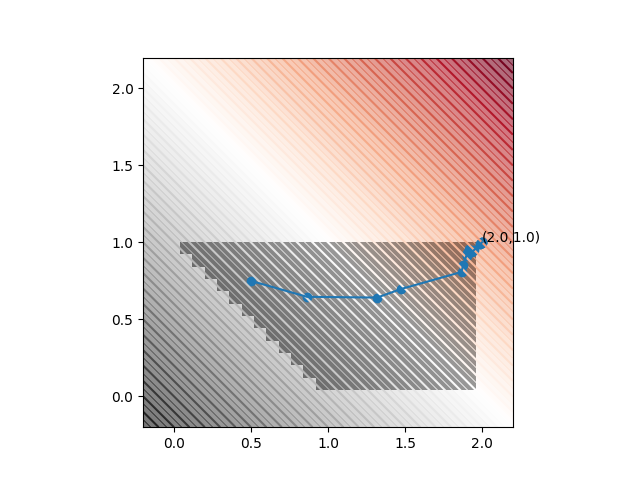
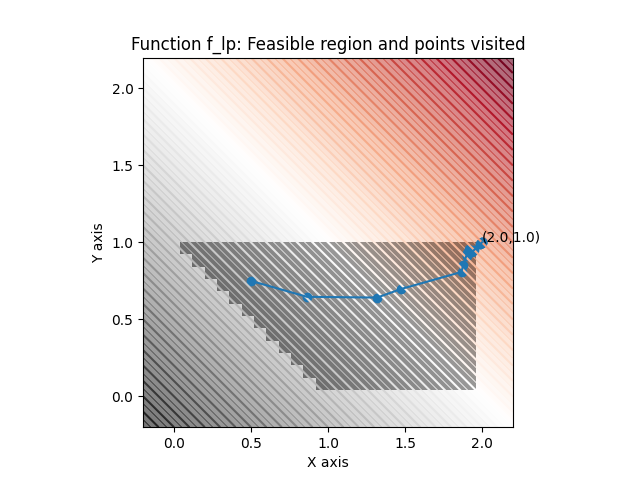
Added title and axis label to lp function + updated respective plot

Changed region(s): [[0.1875, 0.0625, 0.8438, 0.125], [0.4688, 0.9375, 0.5625, 0.9688], [0.125, 0.4688, 0.1562, 0.5312]]

diff --git a/ex2/programming_part/code_everything_in_single_folder_until_i_fix_imports/utils.py b/ex2/programming_part/code_everything_in_single_folder_until_i_fix_imports/utils.py
@@ -104,6 +104,9 @@ def plot_for_lp(f, x_vals, ineq_constraints):
     plt.plot([c[0] for c in x_vals], [c[1] for c in x_vals])
     last_point_str = f'({round(x_vals[-1][0], 2)},{round(x_vals[-1][1], 2)})'
     plt.annotate(last_point_str, (x_vals[-1][0], x_vals[-1][1]))
+    plt.title(f'Function {f.__name__}: Feasible region and points visited')
+    plt.xlabel("X axis")
+    plt.ylabel("Y axis")
     plt.xlim(min_plot_val, max_plot_val)
     plt.ylim(min_plot_val, max_plot_val)
 
